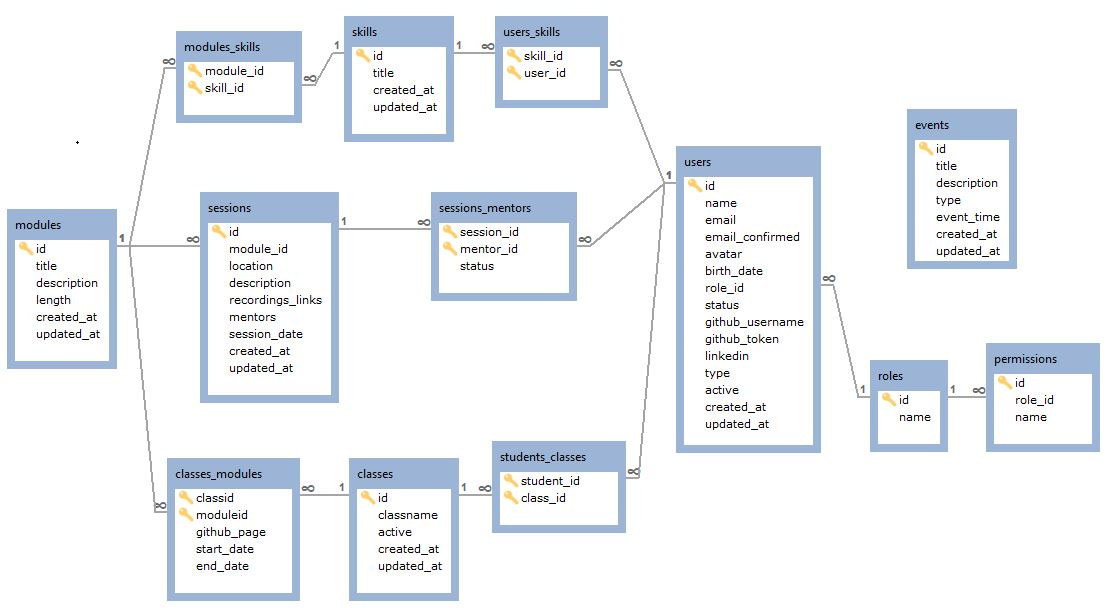
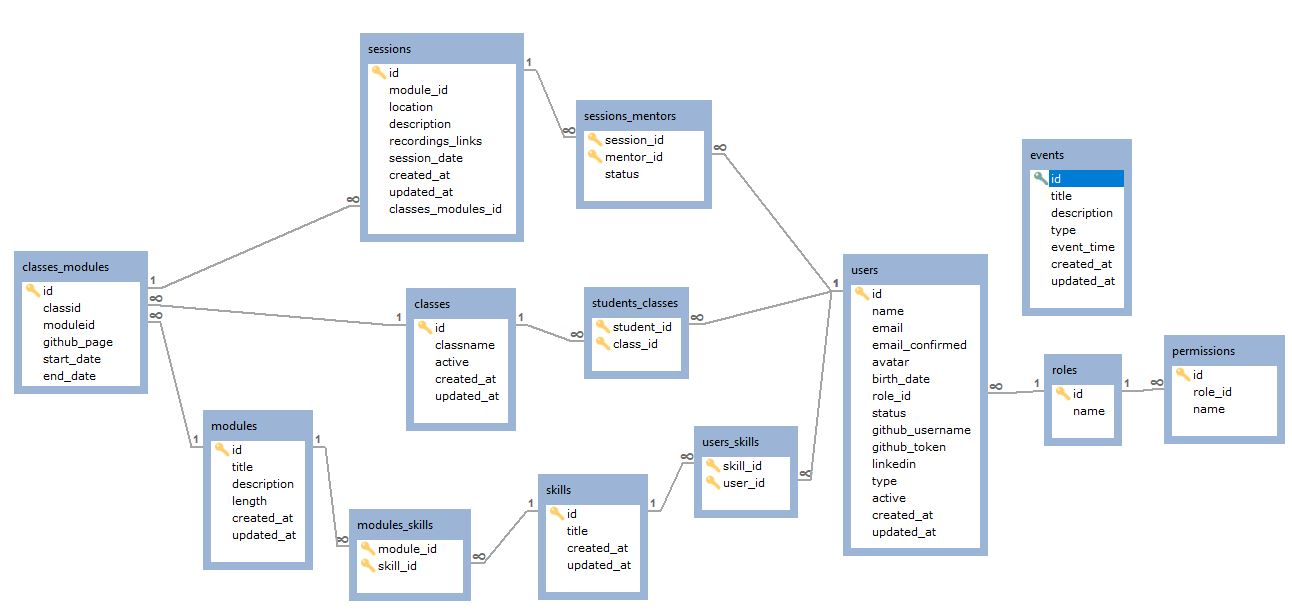
Update knex migrations and erd image

Changed region(s): [[0.0, 0.0, 1.0, 1.0]]

diff --git a/source/src/server/database/knex/migrations/20190116005927_modify_courses.js b/source/src/server/database/knex/migrations/20190116005927_modify_courses.js
@@ -1,0 +1,45 @@
+const tableName = 'classes_modules'
+
+exports.up = knex =>
+  knex.schema.dropTable(tableName).createTable(tableName, table => {
+    table
+      .increments()
+    table.integer('classid')
+      .unsigned()
+      .notNullable()
+      .references('id')
+      .inTable('classes')
+      .onDelete('CASCADE')
+    table
+      .integer('moduleid')
+      .unsigned()
+      .notNullable()
+      .references('id')
+      .inTable('modules')
+      .onDelete('CASCADE')
+    table.string('github_page')
+    table.date('start_date').defaultTo(new Date().toISOString().slice(0, 10))
+    table.date('end_date')
+  })
+
+exports.down = knex =>
+  knex.schema.createTable(tableName, table => {
+    table
+      .integer('classid')
+      .unsigned()
+      .notNullable()
+      .references('id')
+      .inTable('classes')
+      .onDelete('CASCADE')
+    table
+      .integer('moduleid')
+      .unsigned()
+      .notNullable()
+      .references('id')
+      .inTable('modules')
+      .onDelete('CASCADE')
+    table.string('github_page')
+    table.date('start_date').defaultTo(new Date().toISOString().slice(0, 10))
+    table.date('end_date')
+    table.primary(['classid', 'moduleid'])
+  })

diff --git a/source/src/server/database/knex/migrations/20190116014556_join_sessions_with_classes_modules.js b/source/src/server/database/knex/migrations/20190116014556_join_sessions_with_classes_modules.js
@@ -1,0 +1,17 @@
+const tableName = 'sessions'
+
+exports.up = knex =>
+  knex.schema.table(tableName, table => {
+    table.dropForeign('id', 'sessions_module_id_foreign')
+    table
+      .integer('classes_modules_id')
+      .unsigned()
+      .notNullable()
+      .references('id')
+      .inTable('classes_modules')
+      .onDelete('CASCADE')
+  })
+
+exports.down = knex => knex.schema.alterTable(tableName, table => {})
+
+//knex.schema.dropTable(tableName)

diff --git a/source/src/server/database/knex/seeds/00-roles.js b/source/src/server/database/knex/seeds/00-roles.js
@@ -1,0 +1,15 @@
+exports.seed = function(knex, Promise) {
+  // Deletes ALL existing entries
+  return knex('roles')
+    .del()
+    .then(function() {
+      // Inserts seed entries
+      return knex('roles').insert([
+        { id: 1, name: 'admin' },
+        { id: 2, name: 'mentor' },
+        { id: 3, name: 'student' }
+      ])
+    })
+}
+
+
